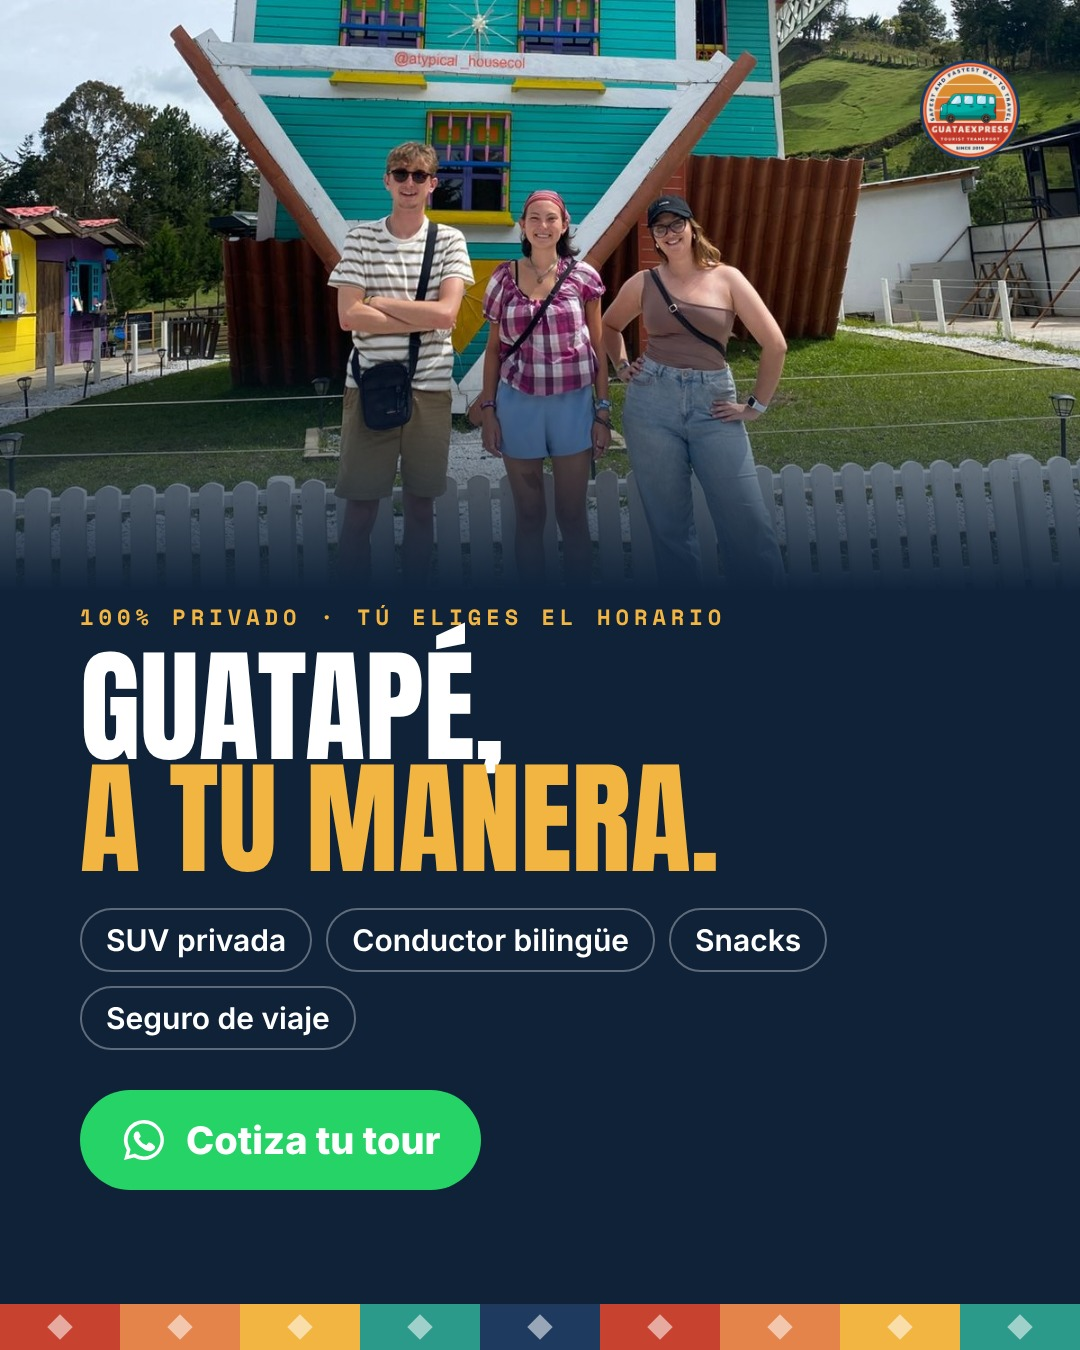
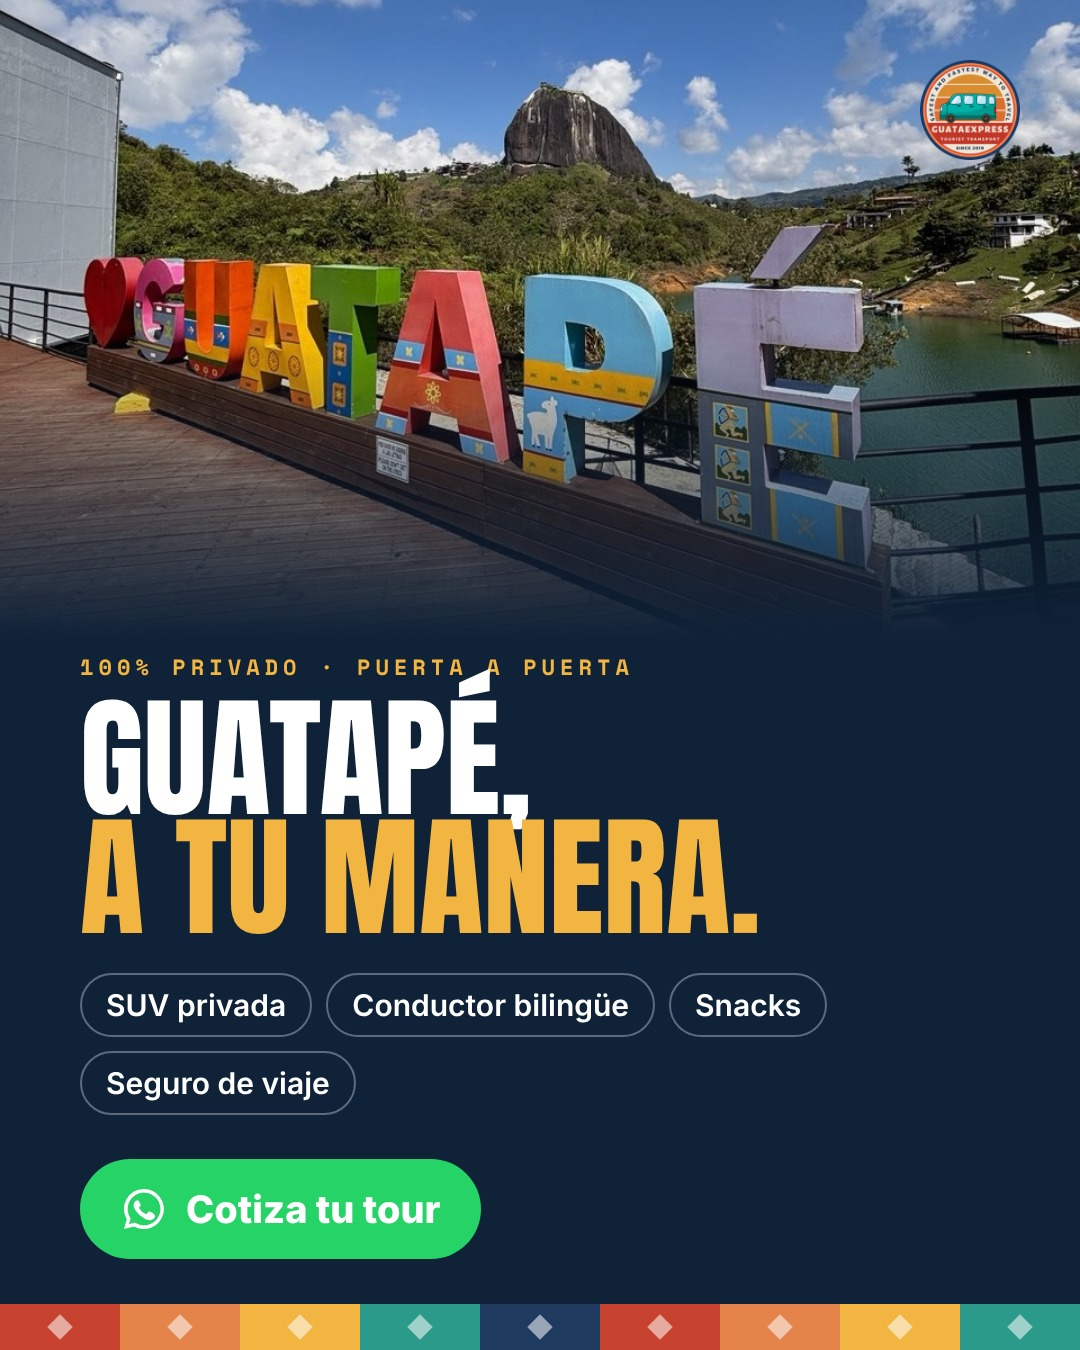
Volver al diseño de itinerario del tour privado, sin la réplica
Claude-Session: https://claude.ai/code/session_01LZ9SaBmjmVr4tj46LR92FB

diff --git a/semanas/2026-11-16/lunes.html b/semanas/2026-11-16/lunes.html
@@ -1,59 +1,38 @@
 <!doctype html><html><head><meta charset="utf-8"><link rel="stylesheet" href="base.css"><style>
 .paper{background:var(--cream);background-image:radial-gradient(rgba(20,36,58,.07) 1.5px,transparent 1.6px);background-size:28px 28px}
-.win{position:absolute;left:70px;right:70px;bottom:70px;height:510px;border-radius:255px 255px 30px 30px;background-size:cover;background-position:center 62%;border:10px solid var(--cream)}
-.num{font-family:Anton;font-size:190px;line-height:.82;color:var(--cream)}
-.row{display:flex;align-items:flex-end;gap:26px}
-.row span{font-family:Anton;text-transform:uppercase;font-size:96px;line-height:.9;color:var(--navy2);padding-bottom:8px}
-.pin{position:absolute;display:flex;align-items:center;gap:20px}
-.pin b{flex:none;width:92px;height:92px;border-radius:50% 50% 50% 6px;rotate:-45deg;background:var(--red);display:grid;place-items:center}
-.pin b i{rotate:45deg;font-family:Anton;font-style:normal;color:#fff;font-size:46px}
-.pin div{font-family:Anton;text-transform:uppercase;font-size:62px;line-height:1;color:var(--navy2)}
-.pin small{display:block;font-family:Caveat;font-weight:700;text-transform:none;font-size:46px;color:var(--red);margin-top:4px}
-.stamp{position:absolute;width:440px;height:440px;border-radius:50%;display:grid;place-items:center;text-align:center;padding:50px}
-.stamp::before{content:"";position:absolute;inset:14px;border-radius:50%;border:4px dashed currentColor;opacity:.75}
-.stamp .k{font-family:'Space Mono';font-weight:700;font-size:20px;letter-spacing:4px}
-.stamp h3{font-family:Anton;text-transform:uppercase;font-size:60px;line-height:.95;margin:10px 0}
-.stamp p{font-size:27px;line-height:1.25;font-weight:600}
+.line{position:absolute;left:150px;top:330px;bottom:150px;border-left:6px dashed var(--navy)}
+.stop{position:absolute;left:96px;right:70px;display:flex;gap:40px;align-items:flex-start}
+.stop .n{flex:none;width:114px;height:114px;border-radius:50%;background:var(--red);color:#fff;font-family:Anton;font-size:60px;display:grid;place-items:center;border:8px solid var(--cream)}
+.stop h3{font-family:Anton;text-transform:uppercase;font-size:78px;line-height:1;color:var(--navy2)}
+.stop p{font-size:38px;line-height:1.3;color:var(--ink);opacity:.8;margin-top:10px;font-weight:500}
+.stop .h{font-family:Caveat;font-weight:700;font-size:54px;color:var(--red);margin-top:6px}
 </style></head><body>
-<section class="s" id="s1" style="background:var(--orange)">
+<section class="s" id="s1"><div class="bg" style="background-image:url(../../fotos-nuevas/casa-al-reves-clientes.jpg);background-position:center 80%"></div>
+<div class="abs" style="inset:0;background:linear-gradient(180deg,rgba(15,34,56,.82) 0%,rgba(15,34,56,.25) 38%,rgba(15,34,56,0) 55%,rgba(15,34,56,.55) 100%)"></div>
 <img class="logo" src="../../logo/logo-circular.png" style="top:60px;right:60px">
-<div class="abs mono" style="top:86px;left:70px;color:var(--navy2)">Tour privado · desde Medellín</div>
-<div class="abs" style="top:140px;left:66px">
-<div class="row"><div class="num">4</div><span>paradas.</span></div>
-<div class="row" style="margin-top:6px"><div class="num">1</div><span>día.</span></div>
-<div class="row" style="margin-top:6px"><div class="num">0</div><span>prisas.</span></div></div>
-<div class="win" style="background-image:url(../../fotos-nuevas/letras-guatape-penol.jpg)"></div>
-<div class="swipe mono" style="top:690px;bottom:auto;right:70px;color:var(--navy2)">Desliza →</div></section>
+<div class="abs mono" style="top:92px;left:70px;color:var(--sun)">Tour privado · desde Medellín</div>
+<div class="abs ant" style="top:150px;left:66px;color:#fff;font-size:190px">Un día.<br><span style="color:var(--sun)">4 paradas.</span></div>
+<div class="abs hand" style="left:70px;bottom:110px;color:#fff;font-size:70px;rotate:-4deg;text-shadow:0 2px 14px #0008">sí, la casa está al revés</div>
+<div class="swipe mono" style="color:#fff">Desliza →</div><div class="zocalo"><i style="background:#c8432f"></i><i style="background:#e4844a"></i><i style="background:#f2b541"></i><i style="background:#2b9a8a"></i><i style="background:#1e3a5f"></i><i style="background:#c8432f"></i><i style="background:#e4844a"></i><i style="background:#f2b541"></i><i style="background:#2b9a8a"></i></div></section>
 <section class="s paper" id="s2"><img class="logo" src="../../logo/logo-circular.png" style="top:60px;right:60px">
-<div class="abs mono" style="top:92px;left:80px;color:var(--red)">La ruta del día</div>
-<div class="abs ser" style="top:128px;left:76px;font-size:112px;color:var(--navy2)">De Medellín a Guatapé</div>
-<svg class="abs" style="inset:0" width="1080" height="1350" viewBox="0 0 1080 1350">
-<path d="M250 1280 C 250 1190, 380 1160, 380 1070 S 120 960, 120 870 S 380 760, 380 670 S 120 560, 120 470 S 250 400, 250 340" fill="none" stroke="#1e3a5f" stroke-width="46" stroke-linecap="round"/>
-<path d="M250 1280 C 250 1190, 380 1160, 380 1070 S 120 960, 120 870 S 380 760, 380 670 S 120 560, 120 470 S 250 400, 250 340" fill="none" stroke="#f4ead9" stroke-width="5" stroke-dasharray="26 22" stroke-linecap="round"/>
-<g stroke="#1e3a5f" stroke-width="4" stroke-dasharray="4 12" stroke-linecap="round"><path d="M430 1070 H500"/><path d="M175 870 H500"/><path d="M430 670 H500"/><path d="M175 470 H500"/></g>
-<g fill="#c8432f" stroke="#f4ead9" stroke-width="8"><circle cx="380" cy="1070" r="34"/><circle cx="120" cy="870" r="34"/><circle cx="380" cy="670" r="34"/><circle cx="120" cy="470" r="34" fill="#2b9a8a"/></g>
-<g fill="#fff" font-family="Anton" font-size="38" text-anchor="middle"><text x="380" y="1084">1</text><text x="120" y="884">2</text><text x="380" y="684">3</text><text x="120" y="484">4</text></g>
-</svg>
-<div class="abs mono" style="left:300px;top:1268px;color:var(--navy)">← Medellín</div>
-<div class="pin" style="left:520px;top:1010px"><div>Alto del Chocho<small>¡hay llamas! 🦙</small></div></div>
-<div class="pin" style="left:520px;top:810px"><div>La Casa al Revés<small>fotos imposibles</small></div></div>
-<div class="pin" style="left:520px;top:610px"><div>La Piedra del Peñol<small>+700 escalones</small></div></div>
-<div class="pin" style="left:520px;top:410px"><div>Guatapé<small>el pueblo de colores</small></div></div>
-<div class="swipe mono" style="color:var(--navy)">Desliza →</div></section>
+<div class="abs mono" style="top:92px;left:80px;color:var(--red)">Itinerario · 1 de 2</div>
+<div class="abs ser" style="top:130px;left:76px;font-size:120px;color:var(--navy2)">La mañana</div><div class="line" style="bottom:330px"></div>
+<div class="stop" style="top:340px"><div class="n">1</div><div><h3>Alto del Chocho</h3><p>Un parque campestre con animales amigables para estirar las piernas.</p><div class="h">¡hay llamas! 🦙</div></div></div>
+<div class="stop" style="top:720px"><div class="n">2</div><div><h3>La Casa al Revés</h3><p>Una parada surrealista y perfecta para fotos.</p><div class="h">entrada opcional</div></div></div>
+<div class="abs" style="left:80px;right:80px;bottom:110px;background:var(--navy);color:#fff;border-radius:28px;padding:34px 40px;font-size:34px;font-weight:600;line-height:1.3">🚙 Te recogemos en tu hotel o Airbnb en Medellín.</div>
+<div class="swipe mono" style="color:var(--navy);bottom:50px">Desliza →</div></section>
 <section class="s paper" id="s3"><img class="logo" src="../../logo/logo-circular.png" style="top:60px;right:60px">
-<div class="abs mono" style="top:92px;left:80px;color:var(--red)">Sellos del viaje</div>
-<div class="abs ser" style="top:128px;left:76px;font-size:112px;color:var(--navy2)">Qué vas a vivir</div>
-<div class="stamp" style="left:70px;top:300px;color:var(--red);rotate:-6deg"><div><div class="k">PARADA 01</div><h3>Alto del Chocho</h3><p>Un parque campestre con animales amigables.</p></div></div>
-<div class="stamp" style="left:570px;top:340px;color:var(--teal);rotate:5deg"><div><div class="k">PARADA 02</div><h3>La Casa al Revés</h3><p>Surrealista y perfecta para fotos. Entrada opcional.</p></div></div>
-<div class="stamp" style="left:90px;top:790px;color:var(--navy);rotate:4deg"><div><div class="k">PARADA 03</div><h3>La Piedra del Peñol</h3><p>Una de las mejores vistas de Colombia. Entrada opcional.</p></div></div>
-<div class="stamp" style="left:560px;top:830px;color:#b9651f;rotate:-5deg"><div><div class="k">PARADA 04</div><h3>Guatapé</h3><p>Tiempo libre: zócalos, artesanías y almuerzo junto al lago.</p></div></div>
-<div class="swipe mono" style="color:var(--navy);bottom:40px">Desliza →</div></section>
-<section class="s" id="s4" style="background:var(--navy2);color:#fff"><div class="bg" style="background-image:url(../../fotos-nuevas/casa-al-reves-clientes.jpg);background-position:center 72%;bottom:auto;height:590px"></div>
-<div class="abs" style="left:0;right:0;top:330px;height:262px;background:linear-gradient(180deg,rgba(15,34,56,0),var(--navy2))"></div>
+<div class="abs mono" style="top:92px;left:80px;color:var(--red)">Itinerario · 2 de 2</div>
+<div class="abs ser" style="top:130px;left:76px;font-size:120px;color:var(--navy2)">La tarde</div><div class="line" style="bottom:330px"></div>
+<div class="stop" style="top:340px"><div class="n">3</div><div><h3>La Piedra del Peñol</h3><p>Más de 700 escalones hasta una de las mejores vistas de Colombia.</p><div class="h">entrada opcional</div></div></div>
+<div class="stop" style="top:720px"><div class="n">4</div><div><h3>Guatapé</h3><p>Tiempo libre en el pueblo más colorido: zócalos, artesanías y almuerzo junto al lago.</p></div></div>
+<div class="abs" style="left:80px;right:80px;bottom:110px;background:var(--navy);color:#fff;border-radius:28px;padding:34px 40px;font-size:34px;font-weight:600;line-height:1.3">⏰ Tú eliges la hora de salida y de regreso. Sin prisas y sin desconocidos.</div>
+<div class="swipe mono" style="color:var(--navy);bottom:50px">Desliza →</div></section>
+<section class="s" id="s4" style="background:var(--navy2);color:#fff"><div class="bg" style="background-image:url(../../fotos-nuevas/letras-guatape-penol.jpg);background-position:center 65%;bottom:auto;height:640px"></div>
+<div class="abs" style="left:0;right:0;top:340px;height:300px;background:linear-gradient(180deg,rgba(15,34,56,0),var(--navy2))"></div>
 <img class="logo" src="../../logo/logo-circular.png" style="top:60px;right:60px">
-<div class="abs" style="left:80px;right:80px;top:600px"><div class="mono" style="color:var(--sun)">100% privado · tú eliges el horario</div>
-<div class="ant" style="font-size:124px;margin-top:18px">Guatapé,<br><span style="color:var(--sun)">a tu manera.</span></div>
-<div style="display:flex;flex-wrap:wrap;gap:14px;margin-top:34px;font-size:30px;font-weight:600"><span style="border:2px solid #fff5;border-radius:999px;padding:12px 24px">SUV privada</span><span style="border:2px solid #fff5;border-radius:999px;padding:12px 24px">Conductor bilingüe</span><span style="border:2px solid #fff5;border-radius:999px;padding:12px 24px">Snacks</span><span style="border:2px solid #fff5;border-radius:999px;padding:12px 24px">Seguro de viaje</span></div>
-<div class="wa" style="margin-top:40px"><svg viewBox="0 0 24 24"><path d="M12 2a10 10 0 00-8.6 15.1L2 22l5-1.3A10 10 0 1012 2zm0 18.2a8.2 8.2 0 01-4.2-1.2l-.3-.2-3 .8.8-2.9-.2-.3A8.2 8.2 0 1112 20.2zm4.5-6.1c-.2-.1-1.5-.7-1.7-.8s-.4-.1-.6.1-.7.8-.8 1-.3.2-.5.1a6.7 6.7 0 01-3.3-2.9c-.3-.4.3-.4.7-1.3.1-.2 0-.3 0-.4l-.8-1.8c-.2-.5-.4-.4-.6-.4h-.5a1 1 0 00-.7.3 3 3 0 00-.9 2.2 5.2 5.2 0 001.1 2.7 11.8 11.8 0 004.5 4c1.7.7 2.3.8 3.2.6a2.7 2.7 0 001.8-1.2 2.2 2.2 0 00.1-1.2c-.1-.1-.2-.2-.5-.3z"/></svg> Cotiza tu tour</div></div>
-<div class="zocalo"><i style="background:#c8432f"></i><i style="background:#e4844a"></i><i style="background:#f2b541"></i><i style="background:#2b9a8a"></i><i style="background:#1e3a5f"></i><i style="background:#c8432f"></i><i style="background:#e4844a"></i><i style="background:#f2b541"></i><i style="background:#2b9a8a"></i></div></section>
+<div class="abs" style="left:80px;right:80px;top:650px"><div class="mono" style="color:var(--sun)">100% privado · puerta a puerta</div>
+<div class="ant" style="font-size:132px;margin-top:16px">Guatapé,<br><span style="color:var(--sun)">a tu manera.</span></div>
+<div style="display:flex;flex-wrap:wrap;gap:14px;margin-top:36px;font-size:30px;font-weight:600"><span style="border:2px solid #fff5;border-radius:999px;padding:12px 24px">SUV privada</span><span style="border:2px solid #fff5;border-radius:999px;padding:12px 24px">Conductor bilingüe</span><span style="border:2px solid #fff5;border-radius:999px;padding:12px 24px">Snacks</span><span style="border:2px solid #fff5;border-radius:999px;padding:12px 24px">Seguro de viaje</span></div>
+<div class="wa" style="margin-top:44px"><svg viewBox="0 0 24 24"><path d="M12 2a10 10 0 00-8.6 15.1L2 22l5-1.3A10 10 0 1012 2zm0 18.2a8.2 8.2 0 01-4.2-1.2l-.3-.2-3 .8.8-2.9-.2-.3A8.2 8.2 0 1112 20.2zm4.5-6.1c-.2-.1-1.5-.7-1.7-.8s-.4-.1-.6.1-.7.8-.8 1-.3.2-.5.1a6.7 6.7 0 01-3.3-2.9c-.3-.4.3-.4.7-1.3.1-.2 0-.3 0-.4l-.8-1.8c-.2-.5-.4-.4-.6-.4h-.5a1 1 0 00-.7.3 3 3 0 00-.9 2.2 5.2 5.2 0 001.1 2.7 11.8 11.8 0 004.5 4c1.7.7 2.3.8 3.2.6a2.7 2.7 0 001.8-1.2 2.2 2.2 0 00.1-1.2c-.1-.1-.2-.2-.5-.3z"/></svg> Cotiza tu tour</div></div><div class="zocalo"><i style="background:#c8432f"></i><i style="background:#e4844a"></i><i style="background:#f2b541"></i><i style="background:#2b9a8a"></i><i style="background:#1e3a5f"></i><i style="background:#c8432f"></i><i style="background:#e4844a"></i><i style="background:#f2b541"></i><i style="background:#2b9a8a"></i></div></section>
 </body></html>

diff --git a/semanas/2026-11-16/lunes-opcion2.html b/semanas/2026-11-16/lunes-opcion2.html
@@ -1,0 +1,59 @@
+<!doctype html><html><head><meta charset="utf-8"><link rel="stylesheet" href="base.css"><style>
+.paper{background:var(--cream);background-image:radial-gradient(rgba(20,36,58,.07) 1.5px,transparent 1.6px);background-size:28px 28px}
+.win{position:absolute;left:70px;right:70px;bottom:70px;height:510px;border-radius:255px 255px 30px 30px;background-size:cover;background-position:center 62%;border:10px solid var(--cream)}
+.num{font-family:Anton;font-size:190px;line-height:.82;color:var(--cream)}
+.row{display:flex;align-items:flex-end;gap:26px}
+.row span{font-family:Anton;text-transform:uppercase;font-size:96px;line-height:.9;color:var(--navy2);padding-bottom:8px}
+.pin{position:absolute;display:flex;align-items:center;gap:20px}
+.pin b{flex:none;width:92px;height:92px;border-radius:50% 50% 50% 6px;rotate:-45deg;background:var(--red);display:grid;place-items:center}
+.pin b i{rotate:45deg;font-family:Anton;font-style:normal;color:#fff;font-size:46px}
+.pin div{font-family:Anton;text-transform:uppercase;font-size:62px;line-height:1;color:var(--navy2)}
+.pin small{display:block;font-family:Caveat;font-weight:700;text-transform:none;font-size:46px;color:var(--red);margin-top:4px}
+.stamp{position:absolute;width:440px;height:440px;border-radius:50%;display:grid;place-items:center;text-align:center;padding:50px}
+.stamp::before{content:"";position:absolute;inset:14px;border-radius:50%;border:4px dashed currentColor;opacity:.75}
+.stamp .k{font-family:'Space Mono';font-weight:700;font-size:20px;letter-spacing:4px}
+.stamp h3{font-family:Anton;text-transform:uppercase;font-size:60px;line-height:.95;margin:10px 0}
+.stamp p{font-size:27px;line-height:1.25;font-weight:600}
+</style></head><body>
+<section class="s" id="s1" style="background:var(--orange)">
+<img class="logo" src="../../logo/logo-circular.png" style="top:60px;right:60px">
+<div class="abs mono" style="top:86px;left:70px;color:var(--navy2)">Tour privado · desde Medellín</div>
+<div class="abs" style="top:140px;left:66px">
+<div class="row"><div class="num">4</div><span>paradas.</span></div>
+<div class="row" style="margin-top:6px"><div class="num">1</div><span>día.</span></div>
+<div class="row" style="margin-top:6px"><div class="num">0</div><span>prisas.</span></div></div>
+<div class="win" style="background-image:url(../../fotos-nuevas/letras-guatape-penol.jpg)"></div>
+<div class="swipe mono" style="top:690px;bottom:auto;right:70px;color:var(--navy2)">Desliza →</div></section>
+<section class="s paper" id="s2"><img class="logo" src="../../logo/logo-circular.png" style="top:60px;right:60px">
+<div class="abs mono" style="top:92px;left:80px;color:var(--red)">La ruta del día</div>
+<div class="abs ser" style="top:128px;left:76px;font-size:112px;color:var(--navy2)">De Medellín a Guatapé</div>
+<svg class="abs" style="inset:0" width="1080" height="1350" viewBox="0 0 1080 1350">
+<path d="M250 1280 C 250 1190, 380 1160, 380 1070 S 120 960, 120 870 S 380 760, 380 670 S 120 560, 120 470 S 250 400, 250 340" fill="none" stroke="#1e3a5f" stroke-width="46" stroke-linecap="round"/>
+<path d="M250 1280 C 250 1190, 380 1160, 380 1070 S 120 960, 120 870 S 380 760, 380 670 S 120 560, 120 470 S 250 400, 250 340" fill="none" stroke="#f4ead9" stroke-width="5" stroke-dasharray="26 22" stroke-linecap="round"/>
+<g stroke="#1e3a5f" stroke-width="4" stroke-dasharray="4 12" stroke-linecap="round"><path d="M430 1070 H500"/><path d="M175 870 H500"/><path d="M430 670 H500"/><path d="M175 470 H500"/></g>
+<g fill="#c8432f" stroke="#f4ead9" stroke-width="8"><circle cx="380" cy="1070" r="34"/><circle cx="120" cy="870" r="34"/><circle cx="380" cy="670" r="34"/><circle cx="120" cy="470" r="34" fill="#2b9a8a"/></g>
+<g fill="#fff" font-family="Anton" font-size="38" text-anchor="middle"><text x="380" y="1084">1</text><text x="120" y="884">2</text><text x="380" y="684">3</text><text x="120" y="484">4</text></g>
+</svg>
+<div class="abs mono" style="left:300px;top:1268px;color:var(--navy)">← Medellín</div>
+<div class="pin" style="left:520px;top:1010px"><div>Alto del Chocho<small>¡hay llamas! 🦙</small></div></div>
+<div class="pin" style="left:520px;top:810px"><div>La Casa al Revés<small>fotos imposibles</small></div></div>
+<div class="pin" style="left:520px;top:610px"><div>La Piedra del Peñol<small>+700 escalones</small></div></div>
+<div class="pin" style="left:520px;top:410px"><div>Guatapé<small>el pueblo de colores</small></div></div>
+<div class="swipe mono" style="color:var(--navy)">Desliza →</div></section>
+<section class="s paper" id="s3"><img class="logo" src="../../logo/logo-circular.png" style="top:60px;right:60px">
+<div class="abs mono" style="top:92px;left:80px;color:var(--red)">Sellos del viaje</div>
+<div class="abs ser" style="top:128px;left:76px;font-size:112px;color:var(--navy2)">Qué vas a vivir</div>
+<div class="stamp" style="left:70px;top:300px;color:var(--red);rotate:-6deg"><div><div class="k">PARADA 01</div><h3>Alto del Chocho</h3><p>Un parque campestre con animales amigables.</p></div></div>
+<div class="stamp" style="left:570px;top:340px;color:var(--teal);rotate:5deg"><div><div class="k">PARADA 02</div><h3>La Casa al Revés</h3><p>Surrealista y perfecta para fotos. Entrada opcional.</p></div></div>
+<div class="stamp" style="left:90px;top:790px;color:var(--navy);rotate:4deg"><div><div class="k">PARADA 03</div><h3>La Piedra del Peñol</h3><p>Una de las mejores vistas de Colombia. Entrada opcional.</p></div></div>
+<div class="stamp" style="left:560px;top:830px;color:#b9651f;rotate:-5deg"><div><div class="k">PARADA 04</div><h3>Guatapé</h3><p>Tiempo libre: zócalos, artesanías y almuerzo junto al lago.</p></div></div>
+<div class="swipe mono" style="color:var(--navy);bottom:40px">Desliza →</div></section>
+<section class="s" id="s4" style="background:var(--navy2);color:#fff"><div class="bg" style="background-image:url(../../fotos-nuevas/casa-al-reves-clientes.jpg);background-position:center 72%;bottom:auto;height:590px"></div>
+<div class="abs" style="left:0;right:0;top:330px;height:262px;background:linear-gradient(180deg,rgba(15,34,56,0),var(--navy2))"></div>
+<img class="logo" src="../../logo/logo-circular.png" style="top:60px;right:60px">
+<div class="abs" style="left:80px;right:80px;top:600px"><div class="mono" style="color:var(--sun)">100% privado · tú eliges el horario</div>
+<div class="ant" style="font-size:124px;margin-top:18px">Guatapé,<br><span style="color:var(--sun)">a tu manera.</span></div>
+<div style="display:flex;flex-wrap:wrap;gap:14px;margin-top:34px;font-size:30px;font-weight:600"><span style="border:2px solid #fff5;border-radius:999px;padding:12px 24px">SUV privada</span><span style="border:2px solid #fff5;border-radius:999px;padding:12px 24px">Conductor bilingüe</span><span style="border:2px solid #fff5;border-radius:999px;padding:12px 24px">Snacks</span><span style="border:2px solid #fff5;border-radius:999px;padding:12px 24px">Seguro de viaje</span></div>
+<div class="wa" style="margin-top:40px"><svg viewBox="0 0 24 24"><path d="M12 2a10 10 0 00-8.6 15.1L2 22l5-1.3A10 10 0 1012 2zm0 18.2a8.2 8.2 0 01-4.2-1.2l-.3-.2-3 .8.8-2.9-.2-.3A8.2 8.2 0 1112 20.2zm4.5-6.1c-.2-.1-1.5-.7-1.7-.8s-.4-.1-.6.1-.7.8-.8 1-.3.2-.5.1a6.7 6.7 0 01-3.3-2.9c-.3-.4.3-.4.7-1.3.1-.2 0-.3 0-.4l-.8-1.8c-.2-.5-.4-.4-.6-.4h-.5a1 1 0 00-.7.3 3 3 0 00-.9 2.2 5.2 5.2 0 001.1 2.7 11.8 11.8 0 004.5 4c1.7.7 2.3.8 3.2.6a2.7 2.7 0 001.8-1.2 2.2 2.2 0 00.1-1.2c-.1-.1-.2-.2-.5-.3z"/></svg> Cotiza tu tour</div></div>
+<div class="zocalo"><i style="background:#c8432f"></i><i style="background:#e4844a"></i><i style="background:#f2b541"></i><i style="background:#2b9a8a"></i><i style="background:#1e3a5f"></i><i style="background:#c8432f"></i><i style="background:#e4844a"></i><i style="background:#f2b541"></i><i style="background:#2b9a8a"></i></div></section>
+</body></html>
